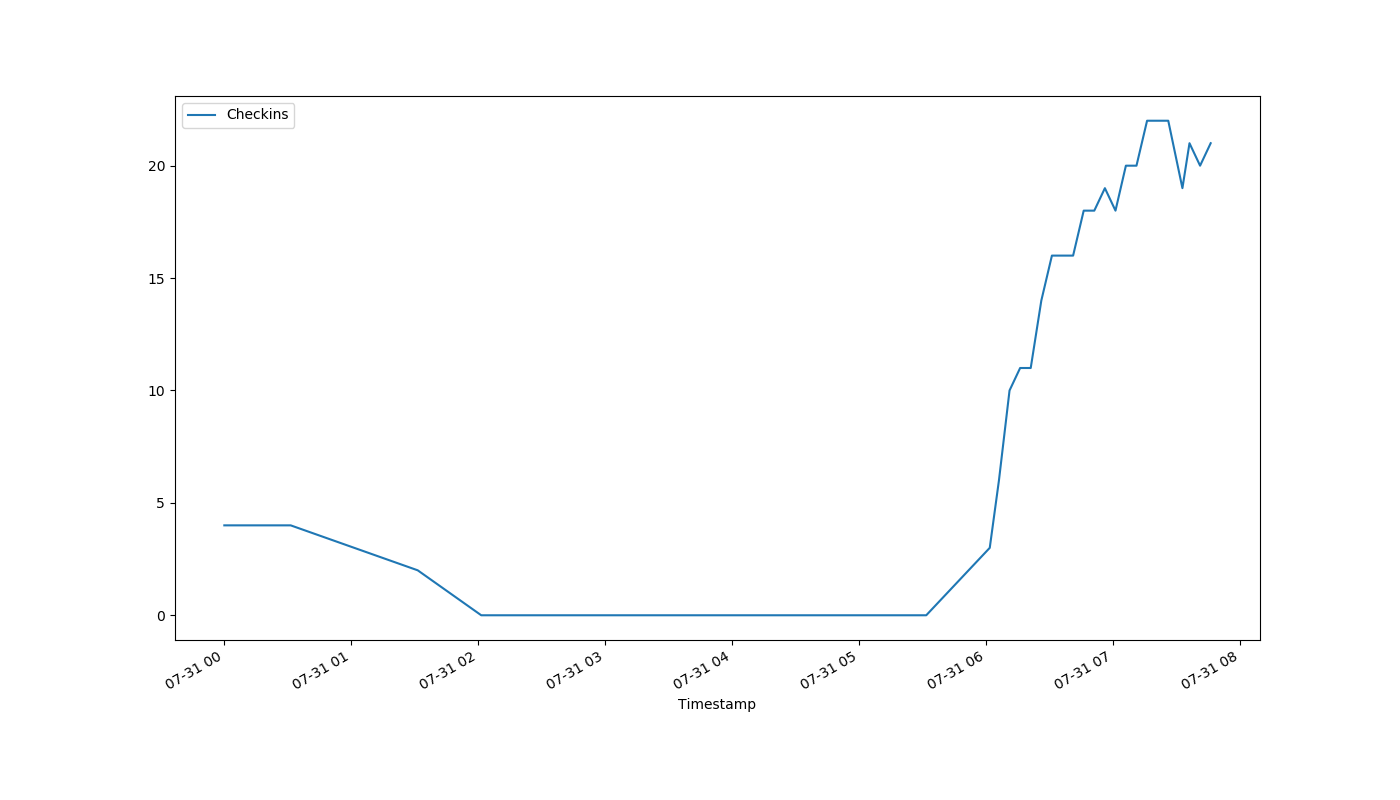
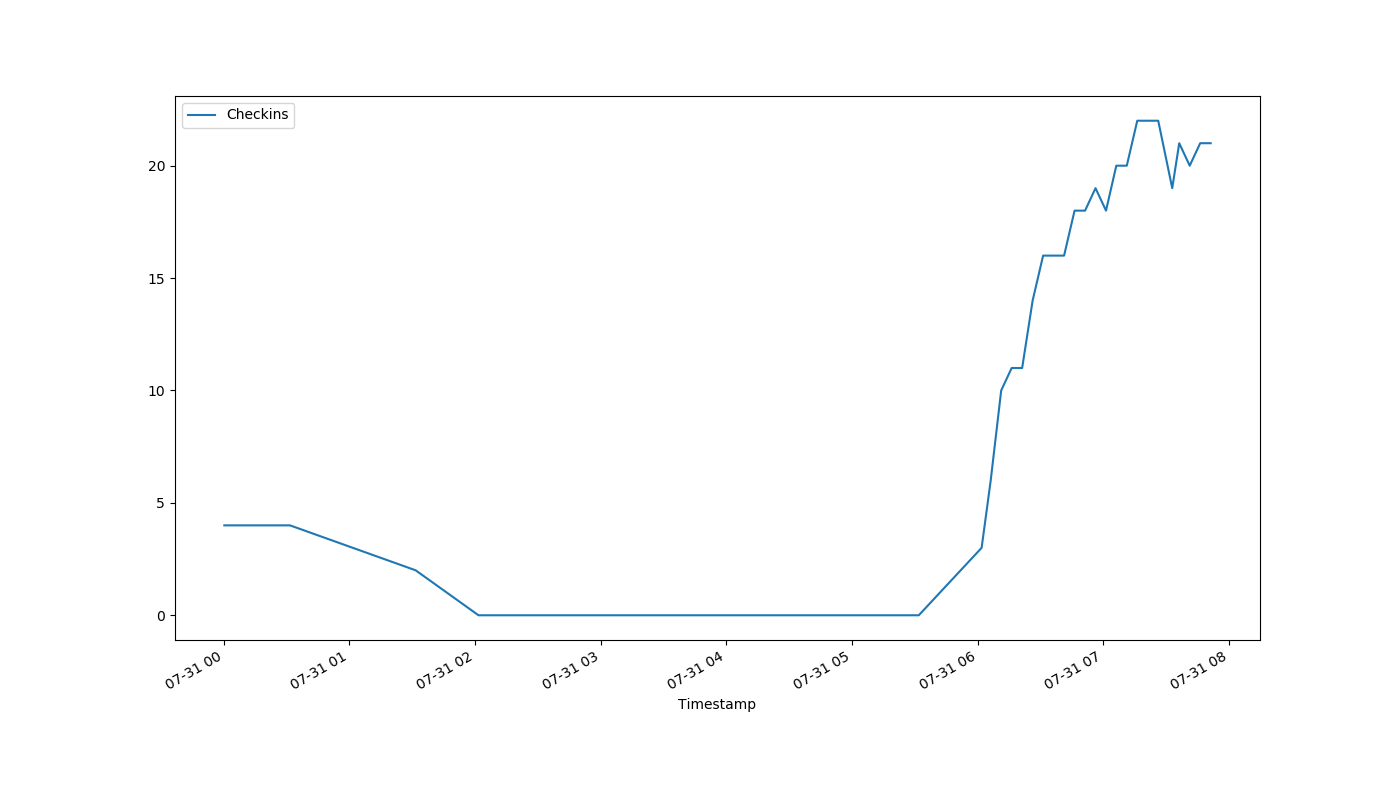
auto-Jul-31-07:53:32

diff --git a/index.html b/index.html
@@ -1,1 +1,1 @@
-<!DOCTYPE html><html><head><meta http-equiv="refresh" content="30"><link rel='stylesheet' href='holmcurrent.css'></head><body><p id='count'>21</p><div id='graph-wrap'><img id='graph' src='holmgraph-Jul-31.png'></div><p id='updated'>Last updated 07:47:05 / 07:46:10</p></body></html>
+<!DOCTYPE html><html><head><meta http-equiv="refresh" content="30"><link rel='stylesheet' href='holmcurrent.css'></head><body><p id='count'>21</p><div id='graph-wrap'><img id='graph' src='holmgraph-Jul-31.png'></div><p id='updated'>Last updated 07:52:05 / 07:51:11</p></body></html>
